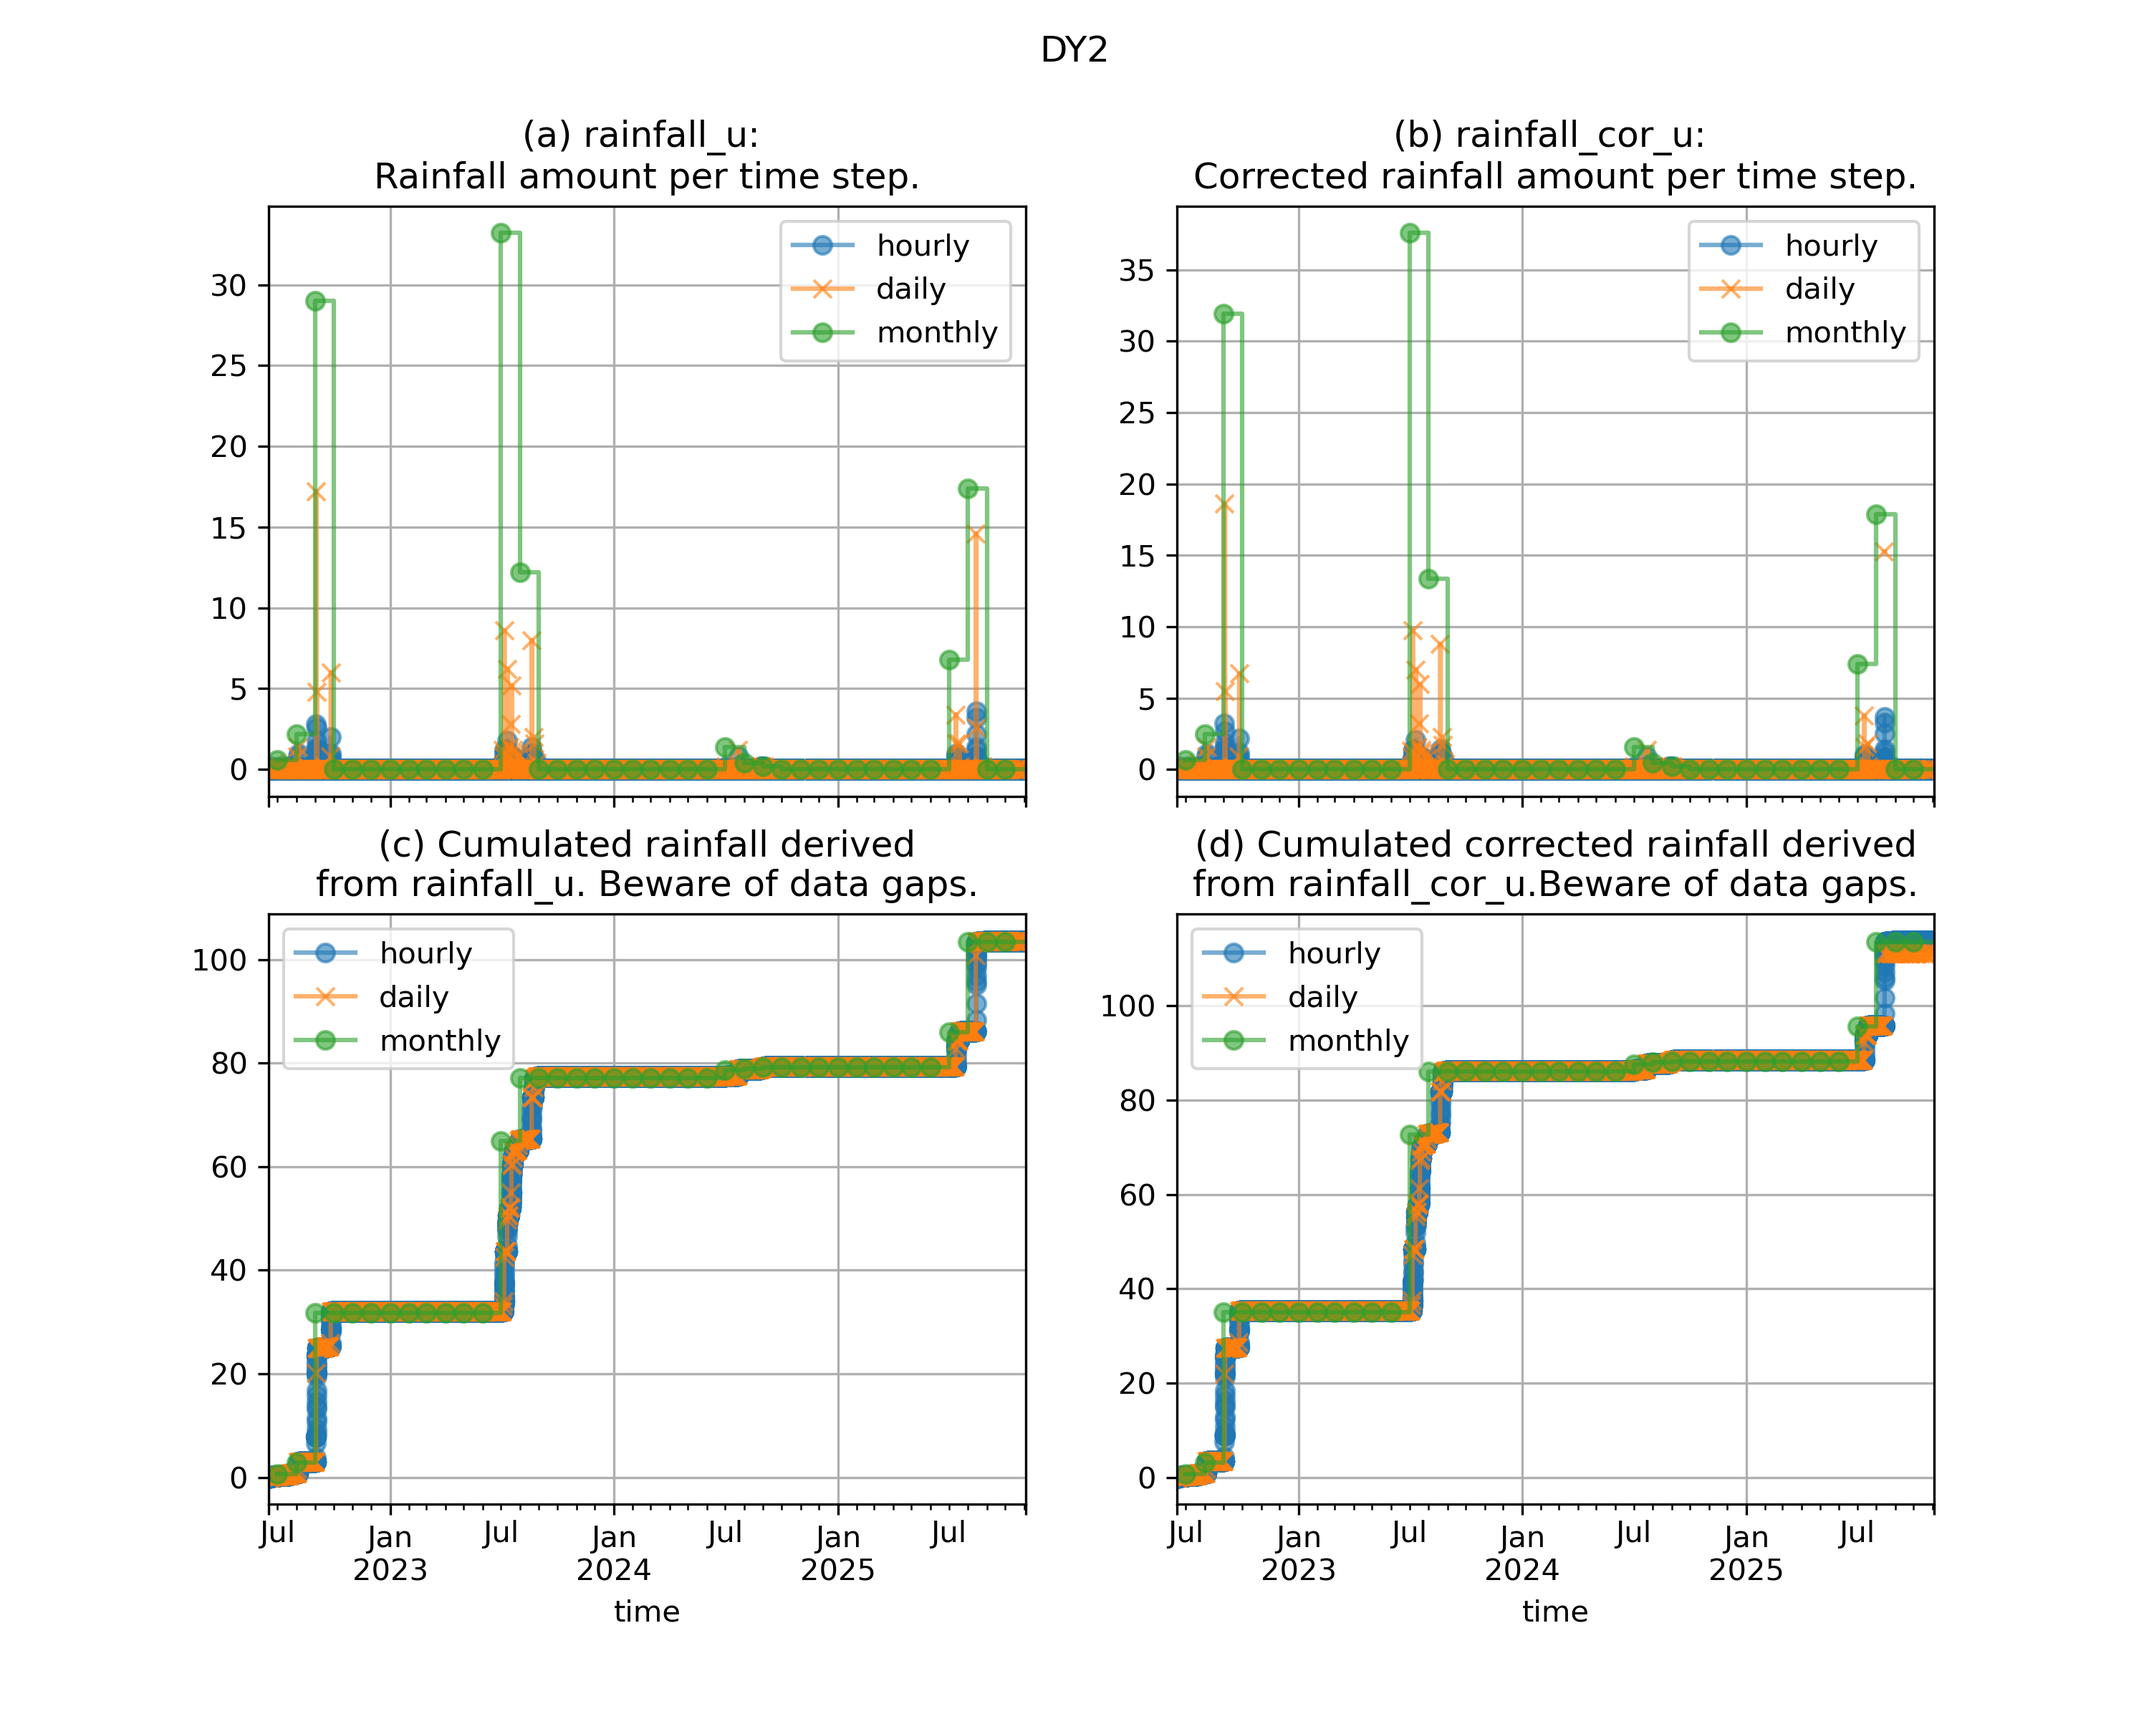
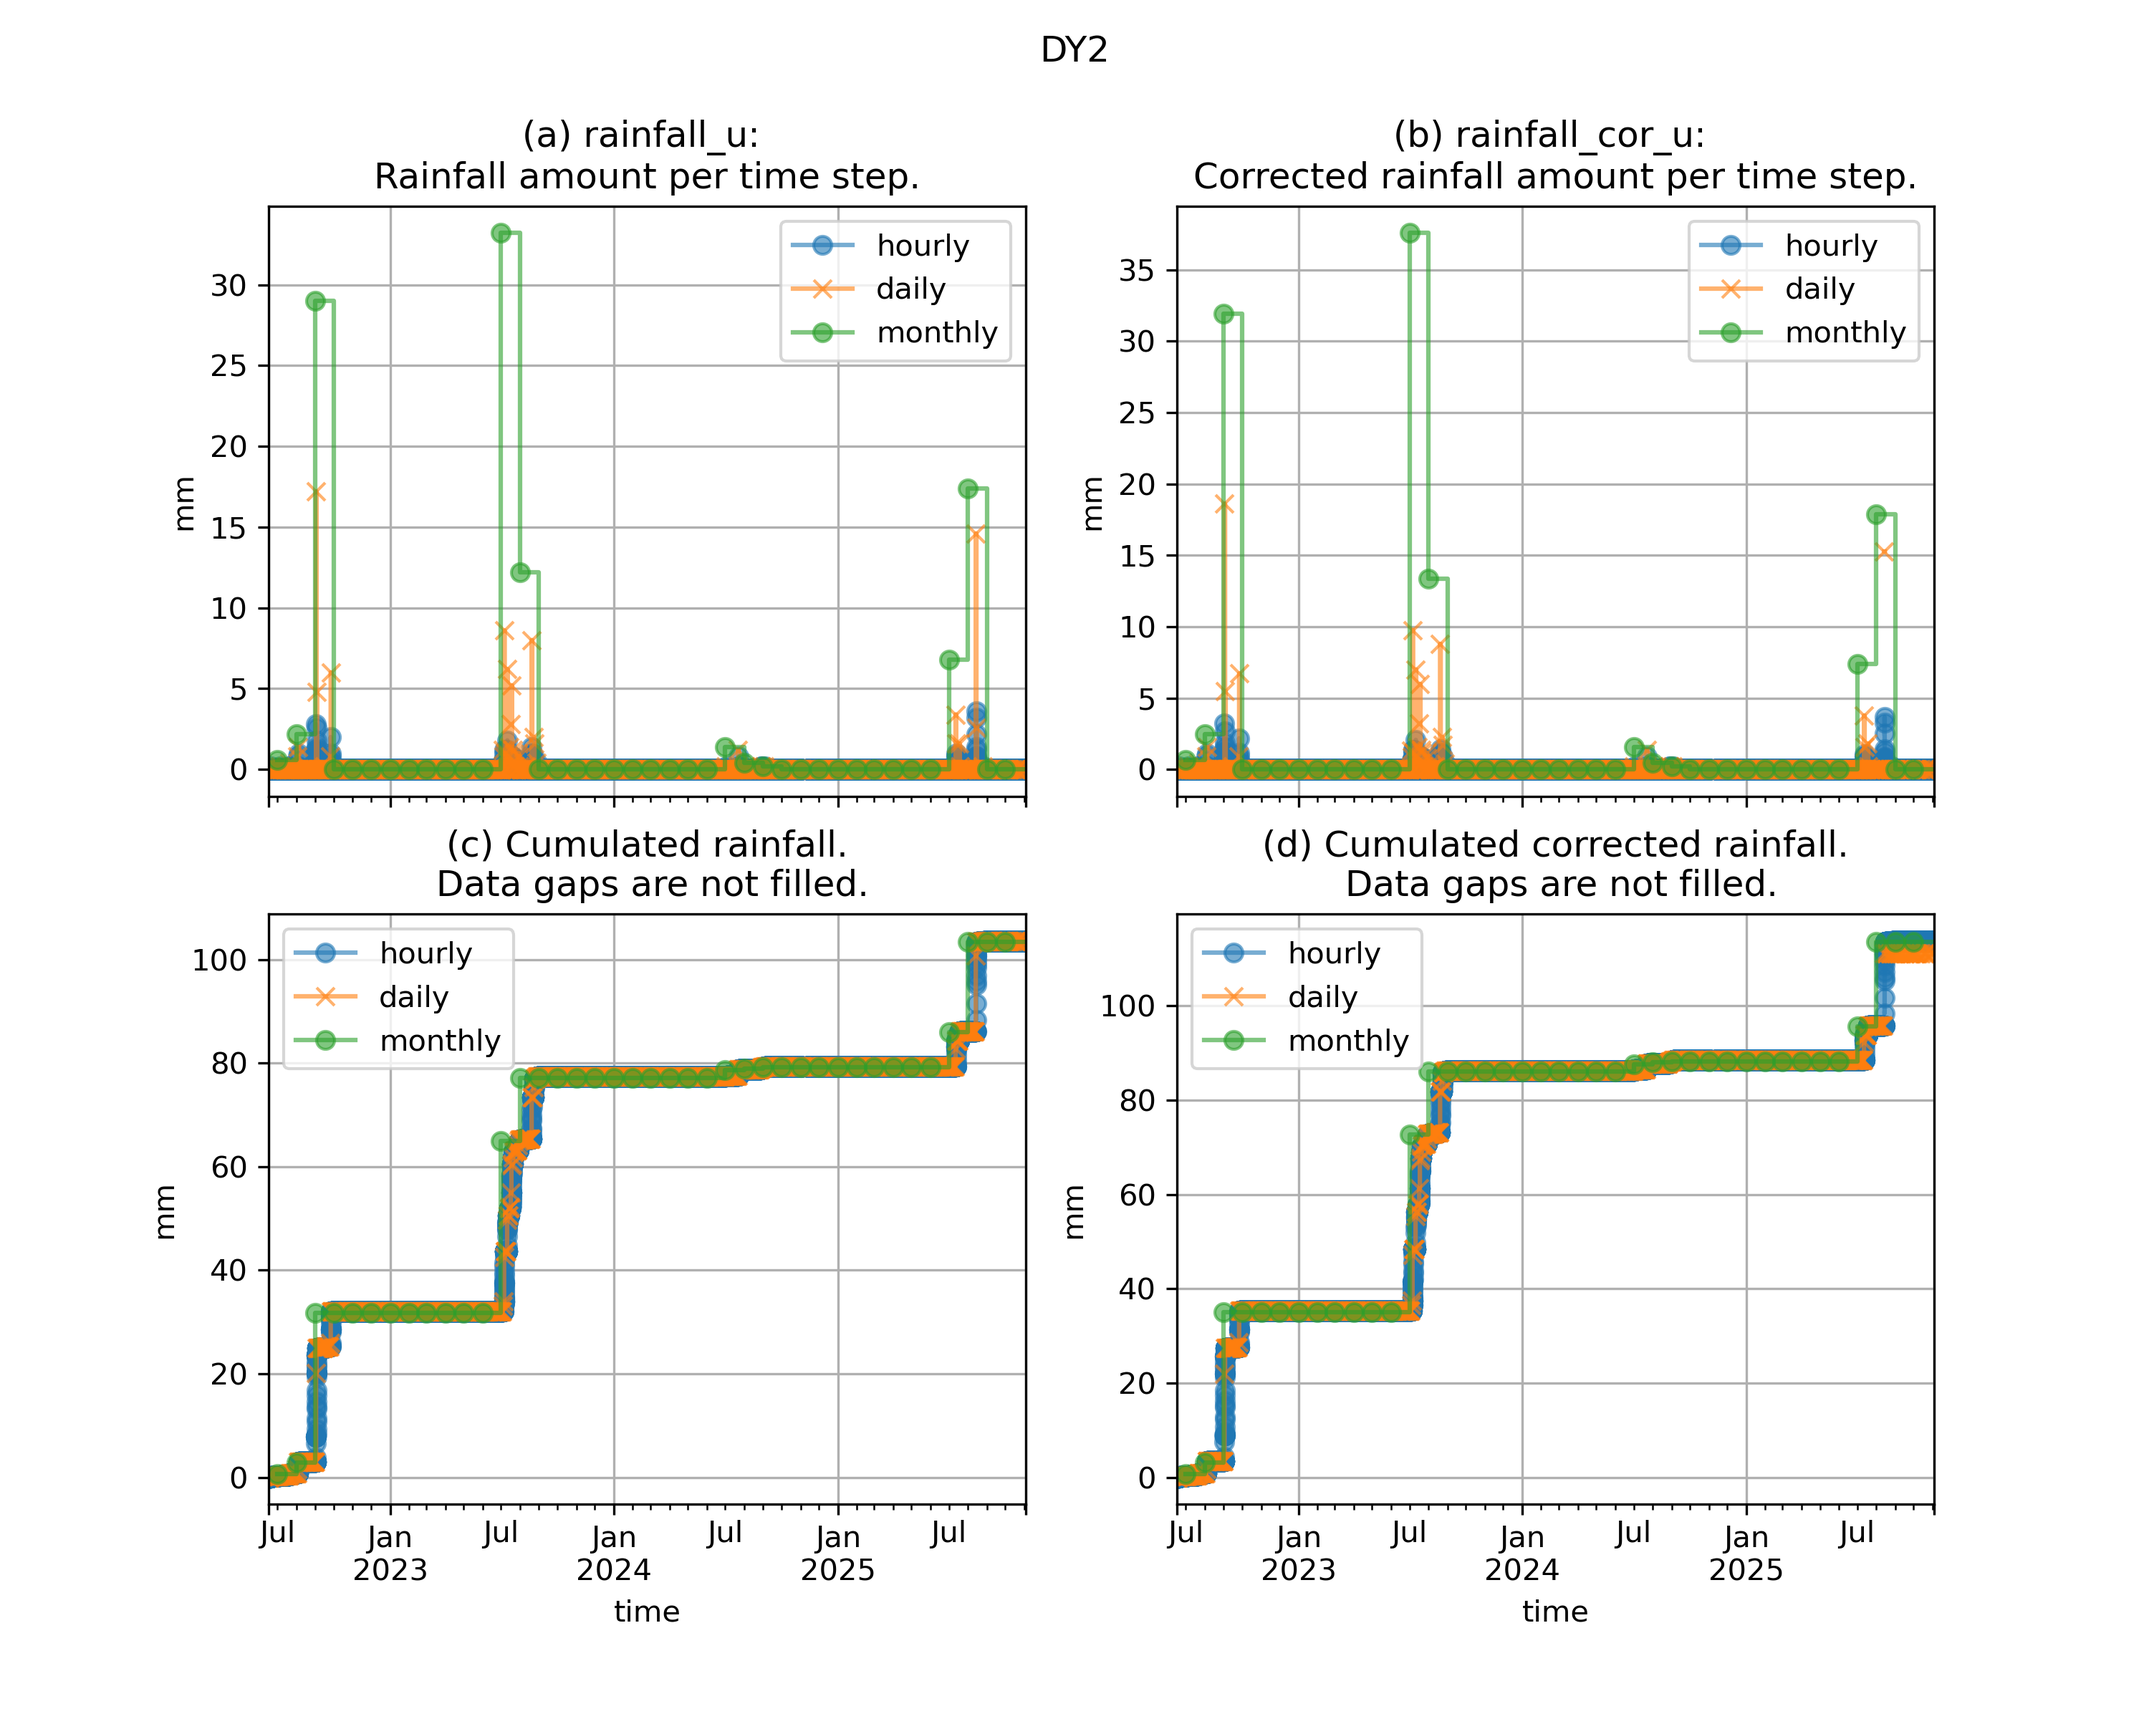
new plots

Changed region(s): [[0.558, 0.4688, 0.899, 0.5312], [0.155, 0.4688, 0.434, 0.5312]]

diff --git a/plot_precip.py b/plot_precip.py
@@ -49,6 +49,7 @@ for file in os.listdir(path_new+'/hour'):
     df_h = fresh_load(f'{path_new}/hour/{site}_hour.csv')
     if var not in df_h.columns:
         Msg('No rainfall measurements')
+        continue
 
     df_h = df_h.loc[slice(df_h[var].first_valid_index(), df_h[var].last_valid_index())]
     df_d = fresh_load(f'{path_new}/day/{site}_day.csv').loc[slice(df_h[var].first_valid_index(), df_h[var].last_valid_index())]
@@ -64,12 +65,11 @@ for file in os.listdir(path_new+'/hour'):
     df_m[var].plot(ax=axs[0], marker='o',alpha=0.6, label='monthly',drawstyle="steps-post")
     
     # Panel (b): Cumulated rainfall
-    axs[2].set_title('(c) Cumulated rainfall derived\nfrom rainfall_u. Data gaps are not filled.')
+    axs[2].set_title('(c) Cumulated rainfall.\n Data gaps are not filled.')
     df_h[var].cumsum().plot(ax=axs[2], marker='o',alpha=0.6, label='hourly',drawstyle="steps-post")
     df_d[var].cumsum().plot(ax=axs[2], marker='x',alpha=0.6, label='daily',drawstyle="steps-post")
     df_m[var].cumsum().plot(ax=axs[2], marker='o',alpha=0.6, label='monthly',drawstyle="steps-post")
 
-    
     var = 'rainfall_cor_u'
     
     # Panel (a): Rainfall amount per time step
@@ -79,11 +79,12 @@ for file in os.listdir(path_new+'/hour'):
     df_m[var].plot(ax=axs[1], marker='o',alpha=0.6, label='monthly',drawstyle="steps-post")
 
     # Panel (b): Cumulated rainfall
-    axs[3].set_title('(d) Cumulated corrected rainfall derived\nfrom rainfall_cor_u. Data gaps are not filled.')
+    axs[3].set_title('(d) Cumulated corrected rainfall.\n Data gaps are not filled.')
     df_h[var].cumsum().plot(ax=axs[3], marker='o',alpha=0.6, label='hourly',drawstyle="steps-post")
     df_d[var].cumsum().plot(ax=axs[3], marker='x',alpha=0.6, label='daily',drawstyle="steps-post")
     df_m[var].cumsum().plot(ax=axs[3], marker='o',alpha=0.6, label='monthly',drawstyle="steps-post")
     for ax in axs:
+        ax.set_ylabel('mm')
         ax.legend()
         ax.grid()
     fig.savefig('figures/precipitation/%s_precipitation.png' % ( site), dpi=300)

diff --git a/plot_compilations/precipitation_sites_toc.md b/plot_compilations/precipitation_sites_toc.md
@@ -1,10 +1,19 @@
-  * [KAN_L](#s0-1)
-## <a id='s0-1' />KAN_L
-![KAN_L](../figures/precipitation/KAN_L_precipitation.png)
+  * [CEN](#s0-1)
+  * [CP1](#s0-2)
+  * [DY2](#s0-3)
+  * [EGP](#s0-4)
+  * [FRE](#s0-5)
+## <a id='s0-1' />CEN
+![CEN](../figures/precipitation/CEN_precipitation.png)
  
-![KAN_L](../figures/precipitation/KAN_L_precipitation.png)
+## <a id='s0-2' />CP1
+![CP1](../figures/precipitation/CP1_precipitation.png)
  
-![KAN_L](../figures/precipitation/KAN_L_precipitation.png)
+## <a id='s0-3' />DY2
+![DY2](../figures/precipitation/DY2_precipitation.png)
  
-![KAN_L](../figures/precipitation/KAN_L_precipitation.png)
+## <a id='s0-4' />EGP
+![EGP](../figures/precipitation/EGP_precipitation.png)
  
+## <a id='s0-5' />FRE
+No rainfall measurements

diff --git a/plot_compilations/precipitation_sites.md b/plot_compilations/precipitation_sites.md
@@ -5,3 +5,10 @@
 ![CP1](../figures/precipitation/CP1_precipitation.png)
  
 ## DY2
+![DY2](../figures/precipitation/DY2_precipitation.png)
+ 
+## EGP
+![EGP](../figures/precipitation/EGP_precipitation.png)
+ 
+## FRE
+No rainfall measurements
